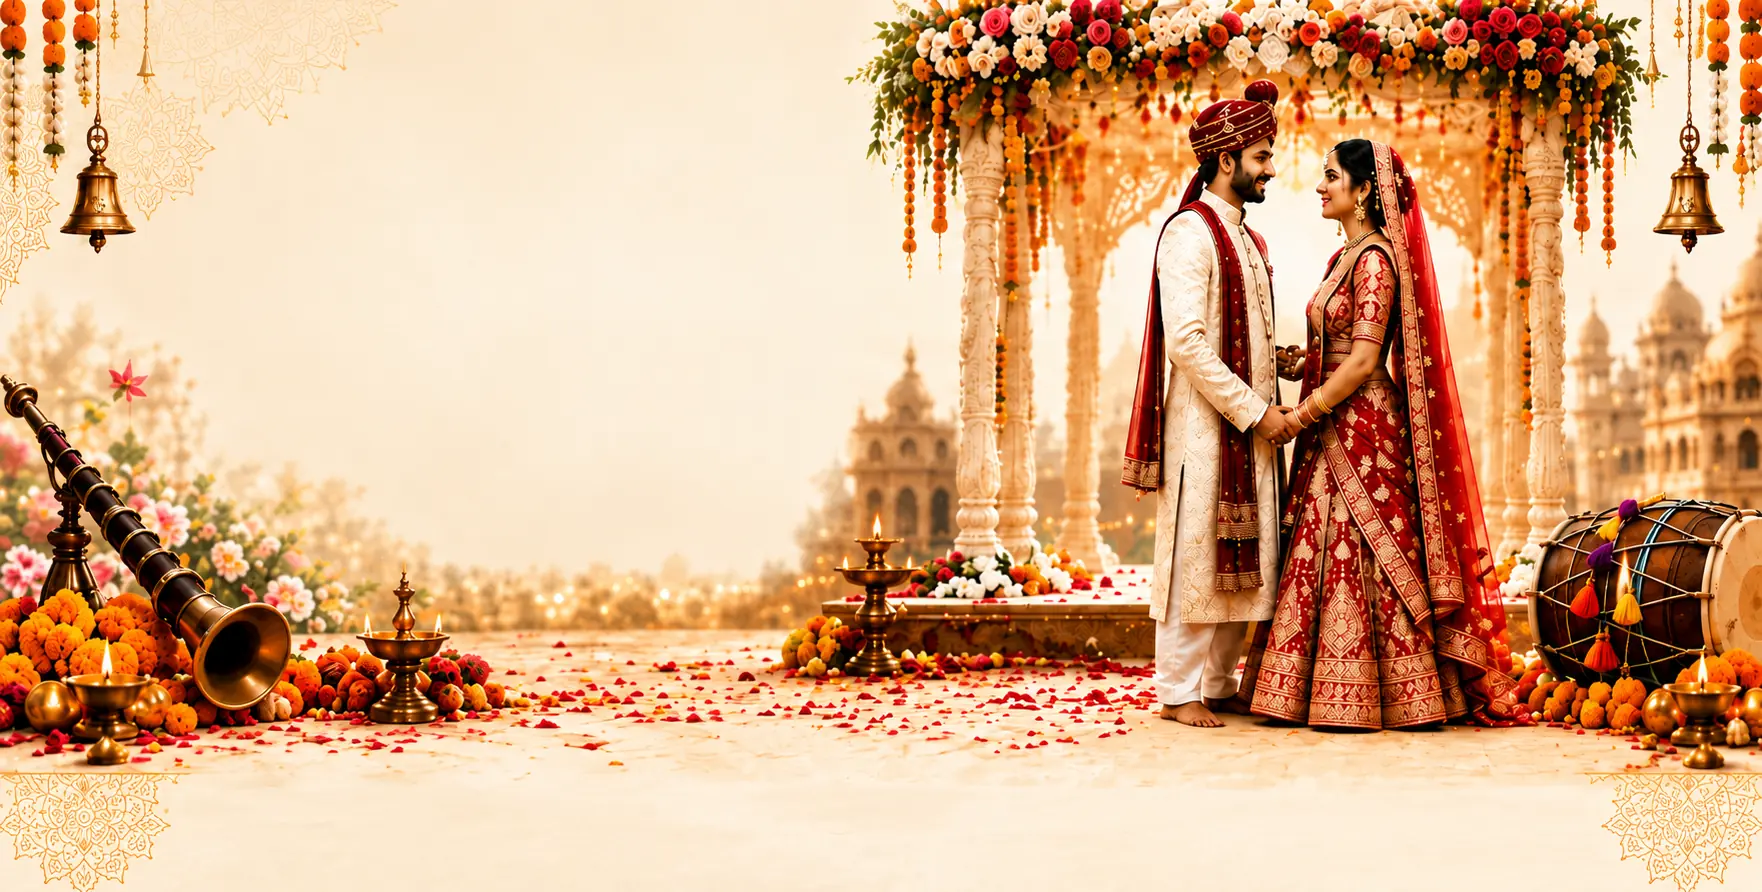
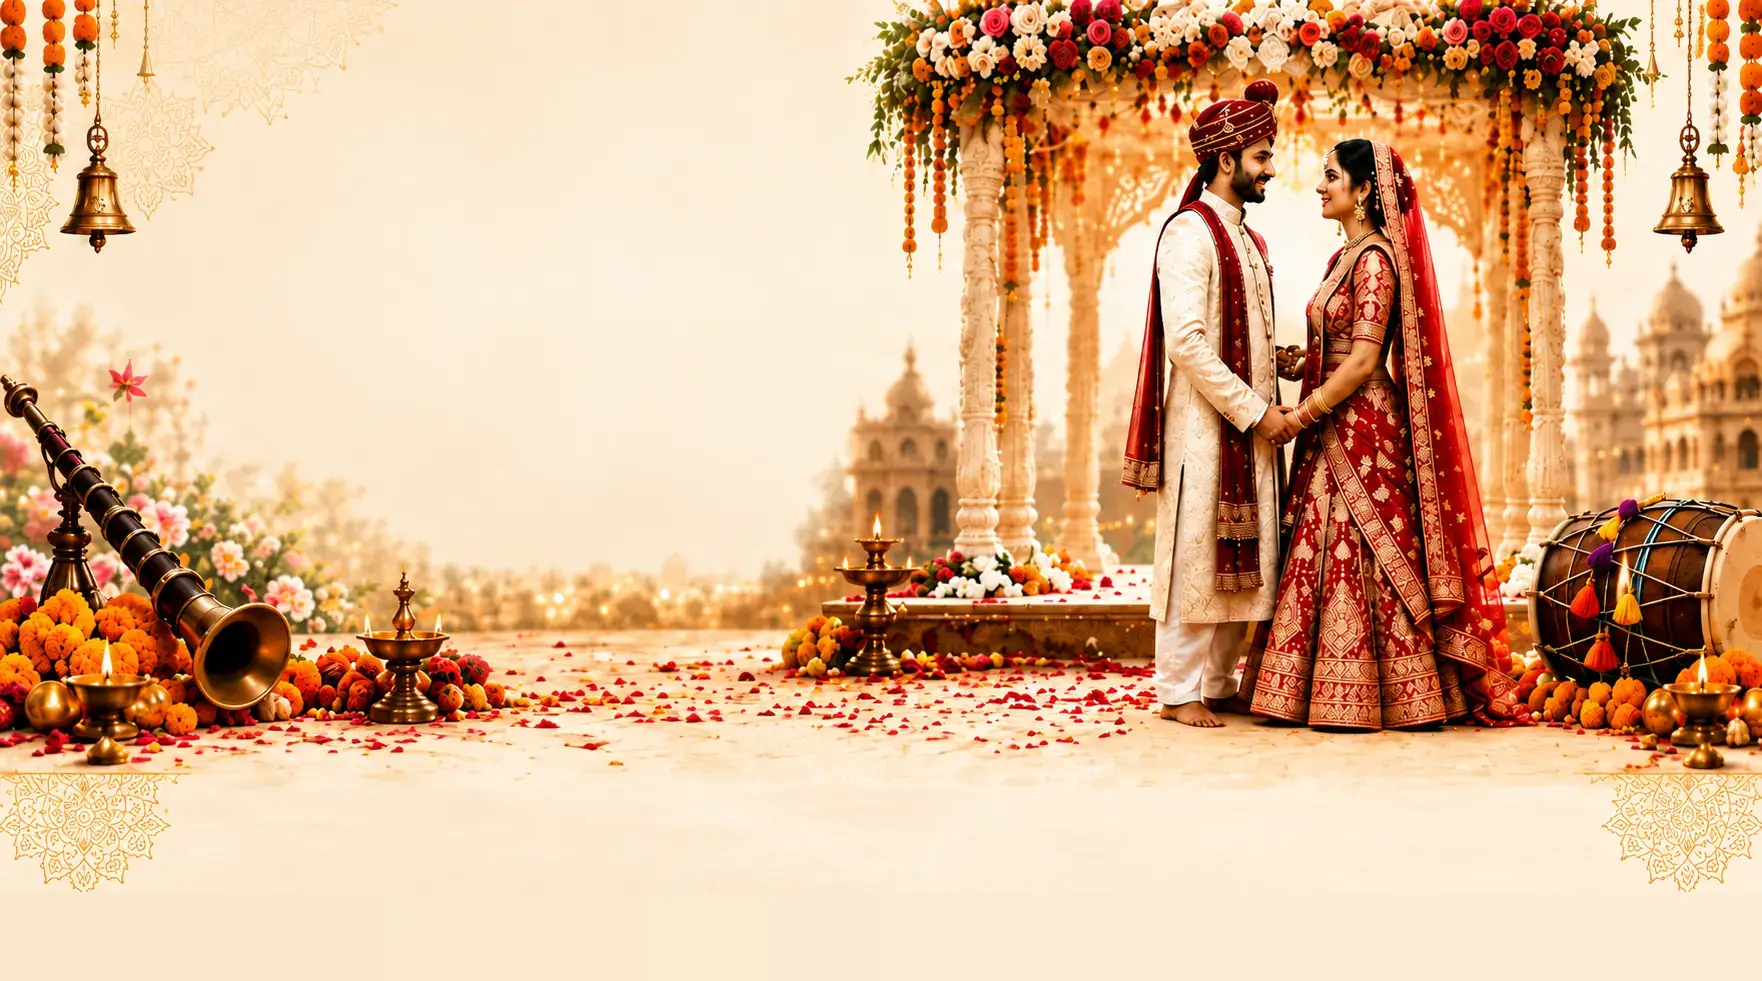
Home page css changes

diff --git a/src/app/globals.css b/src/app/globals.css
@@ -770,20 +770,22 @@ span.flatpickr-weekday,
   background-image: url("/images/statsbar1.webp");
 }
 
+#how-it-works {z-index: 1;}
 #how-it-works::before, #how-it-works::after {
-  content: "";
-  position: absolute;
-  bottom: 0;
-  width: 200px;
-  height: 303px;
-  background-repeat: no-repeat;
-  background-size: contain;
+    content: "";
+    position: absolute;
+    bottom: 0;
+    width: 171px;
+    height: 260px;
+    z-index: -1;
+    background-repeat: no-repeat;
+    background-size: contain;
 }
 #how-it-works::before {
-  left: 0;
-  width: 300px;
-  height: 310px;
-  background-image: url("/images/works1.webp");
+    left: 0;
+    width: 250px;
+    height: 239px;
+    background-image: url("/images/works1.webp");
 }
 #how-it-works::after {
   right: 0;
@@ -795,7 +797,7 @@ header#top::before, header#top::after {
     position: absolute;
     top: 0;
     z-index: 1;
-    width: 85px;
+    width: 88px;
     height: 220px;
     background-repeat: no-repeat;
     background-size: contain;
@@ -807,4 +809,89 @@ header#top::before {
 header#top::after {
   right: 0;
   background-image: url("/images/header_left.webp");
+}
+
+.host_box {z-index: 1;}
+.host_box::before, .host_box::after {
+    content: "";
+    position: absolute;
+    bottom: 0;
+    z-index: -1;
+    width: 210px;
+    height: 184px;
+    background-repeat: no-repeat;
+    background-size: contain;
+}
+.host_box::before {
+    left: 0;
+    width: 100px;
+    height: 100px;
+    background-image: url("/images/host_left.webp");
+}
+.host_box::after {
+  right: 0;
+  background-image: url("/images/host_right.webp");
+}
+.host_inner {
+    padding-left: 115px;
+    padding-right: 220px;
+}
+
+footer#contact {z-index: 1;}
+footer#contact::before, footer#contact::after {
+    content: "";
+    position: absolute;
+    bottom: 0;
+    z-index: -1;
+    width: 145px;
+    height: 171px;
+    background-repeat: no-repeat;
+    background-size: contain;
+}
+footer#contact::before {
+    left: 0;
+    background-image: url("/images/footer_left.webp");
+}
+footer#contact::after {
+  right: 0;
+  background-image: url("/images/footer_right.webp");
+}
+
+
+@media (max-width: 1662px) {
+  .shell {
+    max-width: 1330px;
+  }
+}
+@media (max-width: 1572px) {
+  .shell {
+    max-width: 1230px;
+  }
+}
+@media (max-width: 1472px) {
+  .shell {
+    max-width: 1130px;
+  }
+}
+@media (max-width: 1372px) {
+  .shell {
+    max-width: 1090px;
+  }
+  .host_inner .lg\:gap-8 {
+      gap: 10px;
+  }
+  .host_inner {
+    padding-left: 110px;
+    padding-right: 160px;
+    gap: 15px;
+  }
+  .host_inner h2 {
+    font-size: 18px;
+  }
+}
+@media (max-width: 1248px) {
+  footer#contact::before, footer#contact::after {
+    width: 100px;
+    height: 118px;
+  }
 }

diff --git a/src/components/HostWedding.jsx b/src/components/HostWedding.jsx
@@ -29,19 +29,12 @@ export default function HostWedding() {
   return (
     <section id="host" className="bg-white pb-11">
       <div className="shell">
-        <div className="relative overflow-hidden rounded-2xl border border-gold-300/70 bg-cream-100">
-          {/* faded venue photo on the right */}
-          <VenueScene className="pointer-events-none absolute -right-6 bottom-0 hidden h-full w-[420px] opacity-40 lg:block" />
-          <div className="pointer-events-none absolute inset-0 hidden bg-gradient-to-r from-cream-100 via-cream-100/95 to-cream-100/40 lg:block" />
+        <div className="host_box relative overflow-hidden rounded-2xl border border-gold-300/70 bg-cream-100">
+          <div className="pointer-events-none absolute inset-0 hidden bg-gradient-to-r from-cream-100 via-cream-100/95 to-cream-100/40" />
 
-          {/* corner mandalas */}
-          <Mandala className="pointer-events-none absolute -left-6 -top-6 h-28 w-28 text-gold-500/15" />
-          <Mandala className="pointer-events-none absolute -bottom-8 -right-8 h-32 w-32 text-gold-500/15" />
-
-          <div className="relative grid gap-7 p-5 sm:p-6 lg:grid-cols-[minmax(0,0.9fr)_minmax(0,1.35fr)] lg:items-center lg:gap-8 lg:p-7">
+          <div className="host_inner relative grid gap-7 p-5 sm:p-6 lg:grid-cols-[minmax(0,01fr)_minmax(0,2fr)] lg:items-center lg:gap-8 lg:p-7">
             {/* left: pitch */}
             <div className="relative">
-              <Mandala className="mb-3 h-7 w-7 text-gold-500" petals={8} />
 
               <p className="font-display text-[16px] font-semibold text-ink">
                 Host Your Wedding
@@ -64,11 +57,10 @@ export default function HostWedding() {
                 <ArrowRight className="h-4 w-4 transition-transform group-hover:translate-x-1" />
               </a>
 
-              <ElephantScene className="pointer-events-none absolute -bottom-6 -left-2 hidden h-[118px] w-[150px] opacity-70 xl:block" />
             </div>
 
             {/* right: perks */}
-            <ul className="grid gap-5 sm:grid-cols-2 lg:grid-cols-4 lg:gap-4">
+            <ul className="grid gap-5 sm:grid-cols-2 lg:grid-cols-4 lg:gap-8">
               {perks.map(({ Icon, title, text }) => (
                 <li key={title} className="text-center">
                   <span className="mx-auto mb-2.5 grid h-[46px] w-[46px] place-items-center rounded-full border border-gold-300/80 bg-cream-50 text-wine-700 shadow-sm">

diff --git a/src/components/Footer.jsx b/src/components/Footer.jsx
@@ -53,8 +53,6 @@ export default function Footer() {
 
   return (
     <footer id="contact" className="relative overflow-hidden bg-wine-700">
-      <Mandala className="pointer-events-none absolute -left-16 top-6 h-56 w-56 text-gold-300/[0.07]" />
-      <Mandala className="pointer-events-none absolute -right-16 bottom-0 h-56 w-56 text-gold-300/[0.07]" />
 
       <div className="shell relative pt-8 pb-5">
         <div className="grid gap-7 lg:grid-cols-[1.25fr_repeat(4,0.75fr)_1.3fr] lg:gap-6">

diff --git a/src/components/Navbar.jsx b/src/components/Navbar.jsx
@@ -17,8 +17,8 @@ export default function Navbar() {
   const [open, setOpen] = useState(false)
 
   return (
-    <header id="top" className="relative z-30">
-      <img src="images/topbar.webp" alt="topbar" />
+    <header id="top" className="relative z-30 overflow-hidden">
+      <img src="images/topbar.webp" alt="topbar" width="100%" />
 
       <nav className="relative overflow-visible bg-wine-700">
         {/* faint mandala watermarks behind the bar */}

diff --git a/src/components/Hero.jsx b/src/components/Hero.jsx
@@ -12,7 +12,7 @@ export default function Hero() {
     <section className="herobanner relative isolate">
       {/* backdrop */}
       <div className="absolute inset-0 -z-10">
-        <img src="images/banner.webp" alt="banner" />
+        <img src="images/banner.webp" alt="banner" width="100%" />
       </div>
 
       <div className="shell relative flex min-h-[380px] items-center py-12 sm:min-h-[420px] lg:min-h-[460px]">

diff --git a/src/app/index.css b/src/app/index.css
@@ -63,7 +63,7 @@
 @layer utilities {
   /* Page gutter used by every section so all content lines up */
   .shell {
-    @apply mx-auto w-full max-w-[1200px] px-4 sm:px-6 lg:px-8;
+    @apply mx-auto w-full max-w-[1400px] px-4 sm:px-6 lg:px-8;
   }
 
   /* Hide the scrollbar on the weddings carousel while keeping it scrollable */

diff --git a/src/components/SearchPanel.jsx b/src/components/SearchPanel.jsx
@@ -67,7 +67,7 @@ export default function SearchPanel() {
   }
 
   return (
-    <section className="relative z-20 -mt-12">
+    <section className="relative z-20">
       <div className="shell">
         <form
           onSubmit={onSubmit}
